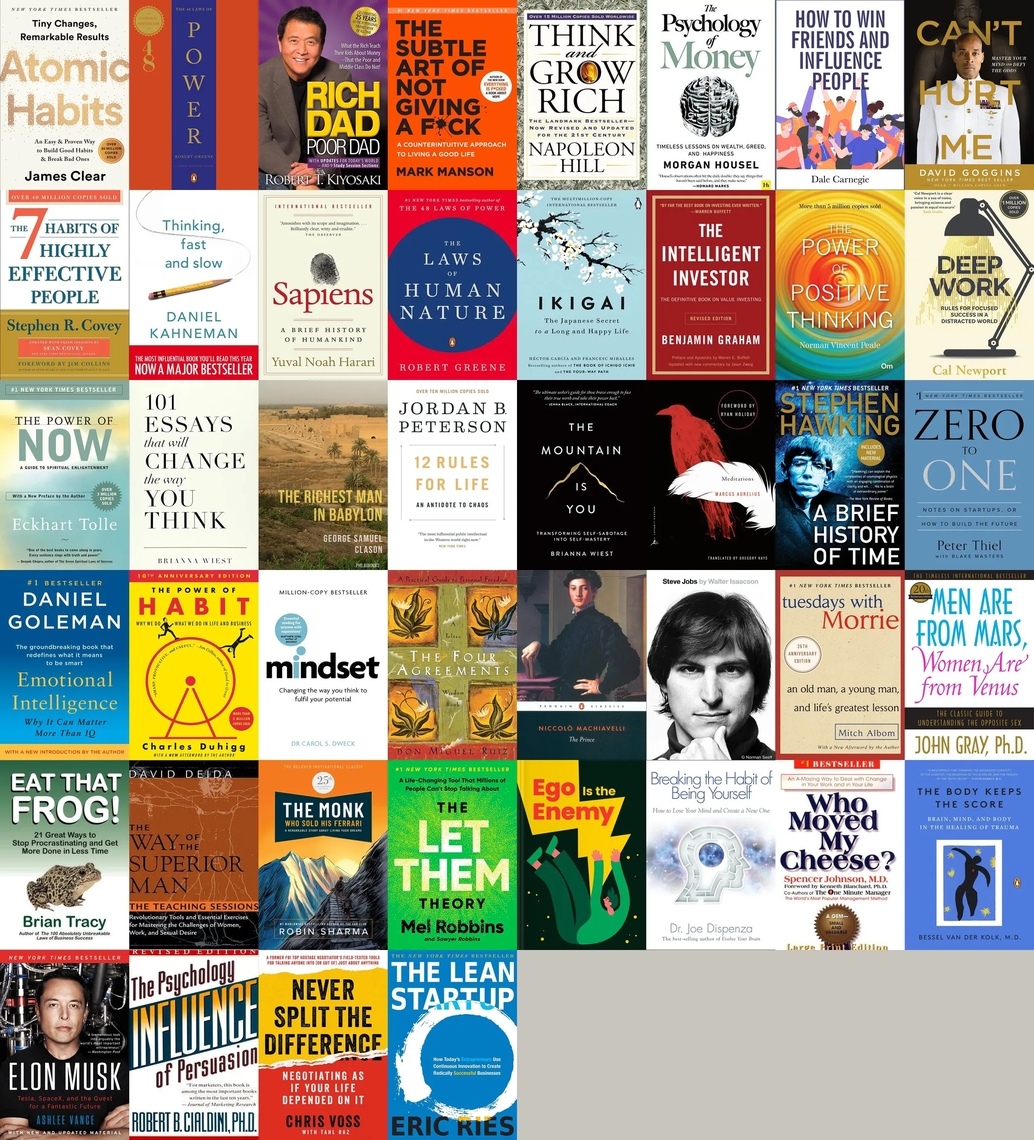
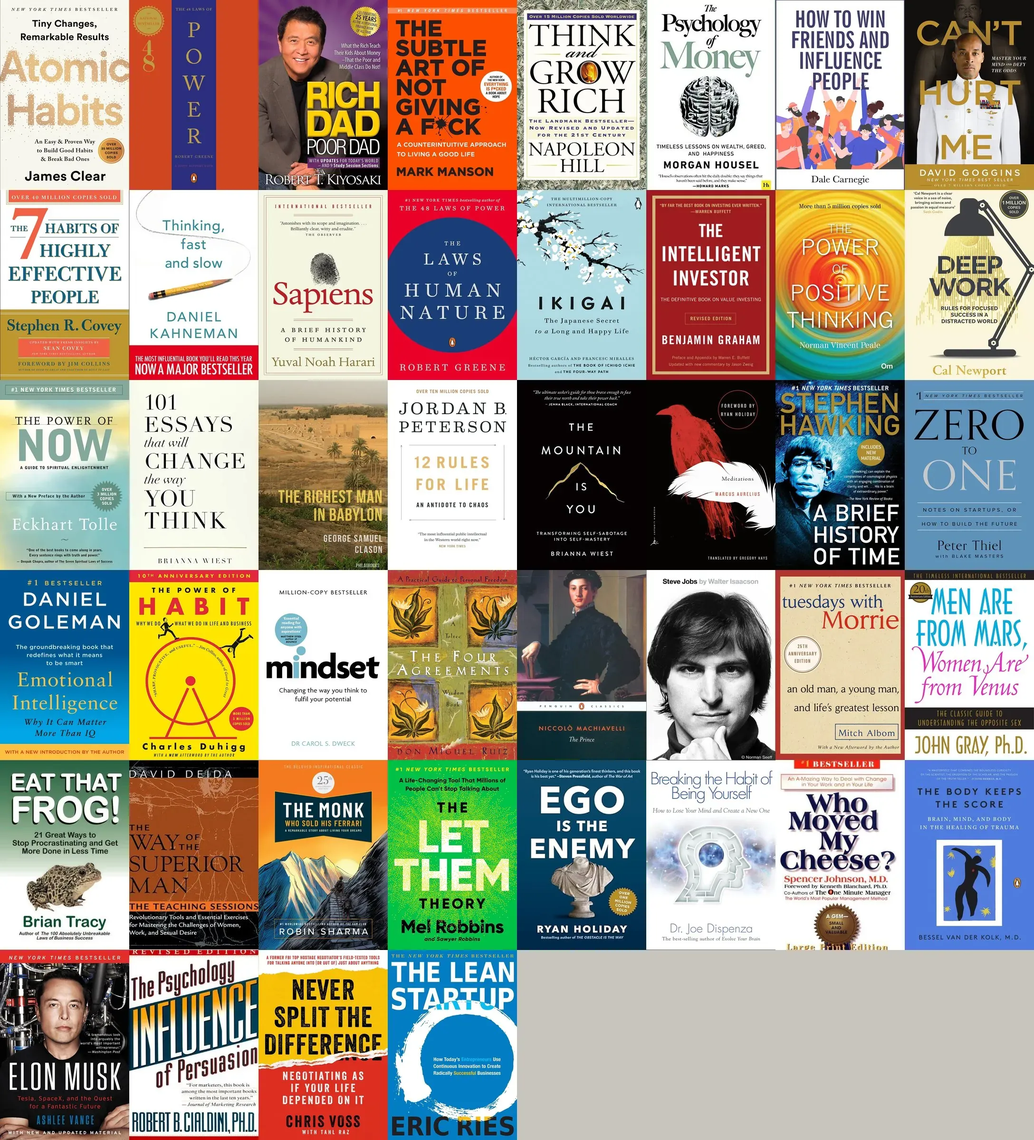
Add privacy manifests and drop Headway covers
- PrivacyInfo.xcprivacy for the app and the widget: no tracking, declared
  data types, and required-reason APIs (UserDefaults, file timestamps).
- backfill-covers never keeps a cover hotlinked from Headway and gains
  --unlicensed to re-check only those books.
- Landing page: Ego Is the Enemy uses an Open Library cover (atlas slot
  patched in place).
- Remove the populate-headway-books npm script (its file was gone).

Claude-Session: https://claude.ai/code/session_012zN42powAZnL5dzLzsEhBi

Changed region(s): [[0.5, 0.6562, 0.625, 0.8438]]

diff --git a/server/public/books.js b/server/public/books.js
@@ -1,2 +1,2 @@
 window.BB_ATLAS = {"src": "/covers-atlas.webp", "cols": 8, "rows": 6, "slotW": 272, "slotH": 400};
-window.BB_BOOKS = [{"title": "Atomic Habits", "author": "James Clear", "cover": "https://books.google.com/books/publisher/content/images/frontcover/XfFvDwAAQBAJ?fife=w1200-h1800&source=gbs_api", "ratio": 1.51, "tint": "#e8e0d1", "hue": 39, "slot": 0}, {"title": "The 48 Laws of Power", "author": "Robert Greene", "cover": "https://is1-ssl.mzstatic.com/image/thumb/Publication221/v4/8a/7d/3e/8a7d3e47-872f-e210-af9c-444dc66872b1/9781101042458.d.jpg/1600x1600bb.jpg", "ratio": 1.423, "tint": "#9c4240", "hue": 1, "slot": 1}, {"title": "Rich Dad Poor Dad", "author": "Robert T. Kiyosaki", "cover": "https://books.google.com/books/publisher/content/images/frontcover/kTEOEgAAQBAJ?fife=w1200-h1800&source=gbs_api", "ratio": 1.5, "tint": "#775649", "hue": 17, "slot": 2}, {"title": "The Subtle Art of Not Giving a F*ck", "author": "Mark Manson", "cover": "https://books.google.com/books/publisher/content/images/frontcover/yng_CwAAQBAJ?fife=w1200-h1800&source=gbs_api", "ratio": 1.498, "tint": "#d55013", "hue": 19, "slot": 3}, {"title": "Think and Grow Rich", "author": "Napoleon Hill", "cover": "https://books.google.com/books/publisher/content/images/frontcover/HO-cnF0abjgC?fife=w1200-h1800&source=gbs_api", "ratio": 1.425, "tint": "#c6c5bb", "hue": null, "slot": 4}, {"title": "The Psychology of Money", "author": "Morgan Housel", "cover": "https://covers.openlibrary.org/b/id/10389354-L.jpg", "ratio": 1.567, "tint": "#dcdedc", "hue": null, "slot": 5}, {"title": "How to win friends and influence people", "author": "Dale Carnegie", "cover": "https://books.google.com/books/publisher/content/images/frontcover/uCO_EAAAQBAJ?fife=w1200-h1800&source=gbs_api", "ratio": 1.506, "tint": "#cdbdc8", "hue": 319, "slot": 6}, {"title": "Can't Hurt Me", "author": "David Goggins", "cover": "https://books.google.com/books/publisher/content/images/frontcover/OSchEAAAQBAJ?fife=w1200-h1800&source=gbs_api", "ratio": 1.546, "tint": "#7b6d55", "hue": 38, "slot": 7}, {"title": "The 7 Habits of Highly Effective People", "author": "Stephen R. Covey", "cover": "https://books.google.com/books/publisher/content/images/frontcover/4K7eDwAAQBAJ?fife=w1200-h1800&source=gbs_api", "ratio": 1.523, "tint": "#d4bb9b", "hue": 34, "slot": 8}, {"title": "Thinking, Fast and Slow", "author": "Daniel Kahneman", "cover": "https://books.google.com/books/publisher/content/images/frontcover/YGPzXWanppcC?fife=w1200-h1800&source=gbs_api", "ratio": 1.544, "tint": "#efced1", "hue": 355, "slot": 9}, {"title": "Sapiens", "author": "Yuval Noah Harari", "cover": "https://books.google.com/books/publisher/content/images/frontcover/Y41zAwAAQBAJ?fife=w1200-h1800&source=gbs_api", "ratio": 1.501, "tint": "#e9e5d1", "hue": 50, "slot": 10}, {"title": "The Laws of Human Nature", "author": "Robert Greene", "cover": "https://books.google.com/books/publisher/content/images/frontcover/T_UOEgAAQBAJ?fife=w1200-h1800&source=gbs_api", "ratio": 1.509, "tint": "#772c5c", "hue": 322, "slot": 11}, {"title": "Ikigai", "author": "Héctor García", "cover": "https://books.google.com/books/publisher/content/images/frontcover/4UCnDQAAQBAJ?fife=w1200-h1800&source=gbs_api", "ratio": 1.414, "tint": "#aacfd6", "hue": 190, "slot": 12}, {"title": "The Intelligent Investor", "author": "Benjamin Graham", "cover": "https://is1-ssl.mzstatic.com/image/thumb/Publication128/v4/b5/4c/14/b54c14de-fc75-a4ba-19b6-ad61fd59ae4c/9780061745171_marketingimage.jpg/1600x1600bb.jpg", "ratio": 1.505, "tint": "#a83a38", "hue": 1, "slot": 13}, {"title": "The Power of Positive Thinking", "author": "Norman Vincent Peale", "cover": "https://books.google.com/books/publisher/content/images/frontcover/A0u0DAAAQBAJ?fife=w1200-h1800&source=gbs_api", "ratio": 1.495, "tint": "#b49d4f", "hue": 46, "slot": 14}, {"title": "Deep Work", "author": "Cal Newport", "cover": "https://books.google.com/books/publisher/content/images/frontcover/lZpFCgAAQBAJ?fife=w1200-h1800&source=gbs_api", "ratio": 1.572, "tint": "#d2cdb2", "hue": 51, "slot": 15}, {"title": "The Power of Now", "author": "Eckhart Tolle", "cover": "https://books.google.com/books/publisher/content/images/frontcover/NFQ7DwAAQBAJ?fife=w1200-h1800&source=gbs_api", "ratio": 1.545, "tint": "#acc9ba", "hue": 149, "slot": 16}, {"title": "101 Essays that Will Change the Way You Think", "author": "Brianna Wiest", "cover": "https://covers.openlibrary.org/b/id/10524689-L.jpg", "ratio": 1.558, "tint": "#eceee2", "hue": 70, "slot": 17}, {"title": "The Richest Man in Babylon", "author": "George S. Clason", "cover": "https://books.google.com/books/publisher/content/images/frontcover/D6brEQAAQBAJ?fife=w1200-h1800&source=gbs_api", "ratio": 1.562, "tint": "#8e784c", "hue": 40, "slot": 18}, {"title": "12 Rules for Life", "author": "Jordan B. Peterson", "cover": "https://books.google.com/books/publisher/content/images/frontcover/sxVHDwAAQBAJ?fife=w1200-h1800&source=gbs_api", "ratio": 1.51, "tint": "#f6f5f3", "hue": 40, "slot": 19}, {"title": "The Mountain Is You", "author": "Brianna Wiest", "cover": "https://covers.openlibrary.org/b/id/13838236-L.jpg", "ratio": 1.502, "tint": "#0d0a0a", "hue": 0, "slot": 20}, {"title": "Meditations", "author": "Marcus Aurelius", "cover": "https://books.google.com/books/publisher/content/images/frontcover/24a_o-VJvGsC?fife=w1200-h1800&source=gbs_api", "ratio": 1.537, "tint": "#42302d", "hue": 9, "slot": 21}, {"title": "A Brief History of Time", "author": "Stephen Hawking", "cover": "https://books.google.com/books/publisher/content/images/frontcover/oZhagX6UWOMC?fife=w1200-h1800&source=gbs_api", "ratio": 1.501, "tint": "#395159", "hue": 195, "slot": 22}, {"title": "Zero to One", "author": "Peter Thiel", "cover": "https://books.google.com/books/publisher/content/images/frontcover/POOJDQAAQBAJ?fife=w1200-h1800&source=gbs_api", "ratio": 1.5, "tint": "#5e8eb2", "hue": 206, "slot": 23}, {"title": "Emotional Intelligence", "author": "Daniel Goleman", "cover": "https://books.google.com/books/publisher/content/images/frontcover/t8GGDwAAQBAJ?fife=w1200-h1800&source=gbs_api", "ratio": 1.508, "tint": "#2a7da1", "hue": 198, "slot": 24}, {"title": "The Power of Habit", "author": "Charles Duhigg", "cover": "https://books.google.com/books/publisher/content/images/frontcover/rrlPEAAAQBAJ?fife=w1200-h1800&source=gbs_api", "ratio": 1.553, "tint": "#f1bf0c", "hue": 47, "slot": 25}, {"title": "Mindset", "author": "Carol Dweck", "cover": "https://books.google.com/books/publisher/content/images/frontcover/R0-eBAAAQBAJ?fife=w1200-h1800&source=gbs_api", "ratio": 1.571, "tint": "#ebedee", "hue": null, "slot": 26}, {"title": "The Four Agreements", "author": "Don Miguel Ruiz", "cover": "https://books.google.com/books/publisher/content/images/frontcover/t54LEAAAQBAJ?fife=w1200-h1800&source=gbs_api", "ratio": 1.45, "tint": "#a97d3f", "hue": 35, "slot": 27}, {"title": "The Prince", "author": "Niccolo Machiavelli", "cover": "https://books.google.com/books/publisher/content/images/frontcover/9l8zEAAAQBAJ?fife=w1200-h1800&source=gbs_api", "ratio": 1.515, "tint": "#494c4e", "hue": null, "slot": 28}, {"title": "Steve Jobs", "author": "Walter Isaacson", "cover": "https://books.google.com/books/publisher/content/images/frontcover/8U2oAAAAQBAJ?fife=w1200-h1800&source=gbs_api", "ratio": 1.52, "tint": "#919191", "hue": null, "slot": 29}, {"title": "Tuesdays with Morrie", "author": "Mitch Albom", "cover": "https://books.google.com/books/publisher/content/images/frontcover/z2z_6hLoPmgC?fife=w1200-h1800&source=gbs_api", "ratio": 1.45, "tint": "#d8b697", "hue": 29, "slot": 30}, {"title": "Men Are from Mars, Women Are from Venus", "author": "John Gray", "cover": "https://books.google.com/books/publisher/content/images/frontcover/gOa0hfqT-M8C?fife=w1200-h1800&source=gbs_api", "ratio": 1.509, "tint": "#c3c7cb", "hue": null, "slot": 31}, {"title": "Eat That Frog!", "author": "Brian Tracy", "cover": "https://covers.openlibrary.org/b/id/847534-L.jpg", "ratio": 1.377, "tint": "#a8b8a9", "hue": null, "slot": 32}, {"title": "The Way of the Superior Man", "author": "David Deida", "cover": "https://covers.openlibrary.org/b/id/865059-L.jpg", "ratio": 1.114, "tint": "#773e1e", "hue": 22, "slot": 33}, {"title": "The Monk Who Sold His Ferrari", "author": "Robin Sharma", "cover": "https://books.google.com/books/publisher/content/images/frontcover/lDAlEAAAQBAJ?fife=w1200-h1800&source=gbs_api", "ratio": 1.499, "tint": "#7e6b4e", "hue": 36, "slot": 34}, {"title": "The Let Them Theory", "author": "Mel Robbins", "cover": "https://books.google.com/books/publisher/content/images/frontcover/WbkVEQAAQBAJ?fife=w1200-h1800&source=gbs_api", "ratio": 1.51, "tint": "#3fc04c", "hue": 126, "slot": 35}, {"title": "Ego Is the Enemy", "author": "Ryan Holiday", "cover": "https://makeheadway.com/_next/image/?url=https%3A%2F%2Fa.storyblok.com%2Ff%2F181188%2F25fc8b7d12%2Fm4tbezvmrcybmlkro6ph-163f8c13a62975-en.jpg&w=750&q=75", "ratio": 1.5, "tint": "#4b5c1d", "hue": 76, "slot": 36}, {"title": "Breaking the Habit of Being Yourself", "author": "Dr. Joe Dispenza", "cover": "https://books.google.com/books/publisher/content/images/frontcover/LV76DwAAQBAJ?fife=w1200-h1800&source=gbs_api", "ratio": 1.471, "tint": "#e4e8ee", "hue": 216, "slot": 37}, {"title": "Who Moved My Cheese?", "author": "Spencer Johnson", "cover": "https://covers.openlibrary.org/b/id/258839-L.jpg", "ratio": 1.572, "tint": "#d5caca", "hue": null, "slot": 38}, {"title": "The Body Keeps the Score", "author": "Bessel A. Van der Kolk", "cover": "https://books.google.com/books/publisher/content/images/frontcover/vHnZCwAAQBAJ?fife=w1200-h1800&source=gbs_api", "ratio": 1.504, "tint": "#5b81d3", "hue": 221, "slot": 39}, {"title": "Elon Musk", "author": "Ashlee Vance", "cover": "https://books.google.com/books/publisher/content/images/frontcover/Yd99BAAAQBAJ?fife=w1200-h1800&source=gbs_api", "ratio": 1.505, "tint": "#594340", "hue": 7, "slot": 40}, {"title": "Influence", "author": "Robert B. Cialdini", "cover": "https://covers.openlibrary.org/b/id/431011-L.jpg", "ratio": 1.522, "tint": "#b3aaa6", "hue": null, "slot": 41}, {"title": "Never Split the Difference", "author": "Chris Voss", "cover": "https://books.google.com/books/publisher/content/images/frontcover/RmdqCgAAQBAJ?fife=w1200-h1800&source=gbs_api", "ratio": 1.513, "tint": "#cd7b39", "hue": 27, "slot": 42}, {"title": "The Lean Startup", "author": "Eric Ries", "cover": "https://books.google.com/books/publisher/content/images/frontcover/r9x-OXdzpPcC?fife=w1200-h1800&source=gbs_api", "ratio": 1.51, "tint": "#4b9dca", "hue": 201, "slot": 43}];
+window.BB_BOOKS = [{"title": "Atomic Habits", "author": "James Clear", "cover": "https://books.google.com/books/publisher/content/images/frontcover/XfFvDwAAQBAJ?fife=w1200-h1800&source=gbs_api", "ratio": 1.51, "tint": "#e8e0d1", "hue": 39, "slot": 0}, {"title": "The 48 Laws of Power", "author": "Robert Greene", "cover": "https://is1-ssl.mzstatic.com/image/thumb/Publication221/v4/8a/7d/3e/8a7d3e47-872f-e210-af9c-444dc66872b1/9781101042458.d.jpg/1600x1600bb.jpg", "ratio": 1.423, "tint": "#9c4240", "hue": 1, "slot": 1}, {"title": "Rich Dad Poor Dad", "author": "Robert T. Kiyosaki", "cover": "https://books.google.com/books/publisher/content/images/frontcover/kTEOEgAAQBAJ?fife=w1200-h1800&source=gbs_api", "ratio": 1.5, "tint": "#775649", "hue": 17, "slot": 2}, {"title": "The Subtle Art of Not Giving a F*ck", "author": "Mark Manson", "cover": "https://books.google.com/books/publisher/content/images/frontcover/yng_CwAAQBAJ?fife=w1200-h1800&source=gbs_api", "ratio": 1.498, "tint": "#d55013", "hue": 19, "slot": 3}, {"title": "Think and Grow Rich", "author": "Napoleon Hill", "cover": "https://books.google.com/books/publisher/content/images/frontcover/HO-cnF0abjgC?fife=w1200-h1800&source=gbs_api", "ratio": 1.425, "tint": "#c6c5bb", "hue": null, "slot": 4}, {"title": "The Psychology of Money", "author": "Morgan Housel", "cover": "https://covers.openlibrary.org/b/id/10389354-L.jpg", "ratio": 1.567, "tint": "#dcdedc", "hue": null, "slot": 5}, {"title": "How to win friends and influence people", "author": "Dale Carnegie", "cover": "https://books.google.com/books/publisher/content/images/frontcover/uCO_EAAAQBAJ?fife=w1200-h1800&source=gbs_api", "ratio": 1.506, "tint": "#cdbdc8", "hue": 319, "slot": 6}, {"title": "Can't Hurt Me", "author": "David Goggins", "cover": "https://books.google.com/books/publisher/content/images/frontcover/OSchEAAAQBAJ?fife=w1200-h1800&source=gbs_api", "ratio": 1.546, "tint": "#7b6d55", "hue": 38, "slot": 7}, {"title": "The 7 Habits of Highly Effective People", "author": "Stephen R. Covey", "cover": "https://books.google.com/books/publisher/content/images/frontcover/4K7eDwAAQBAJ?fife=w1200-h1800&source=gbs_api", "ratio": 1.523, "tint": "#d4bb9b", "hue": 34, "slot": 8}, {"title": "Thinking, Fast and Slow", "author": "Daniel Kahneman", "cover": "https://books.google.com/books/publisher/content/images/frontcover/YGPzXWanppcC?fife=w1200-h1800&source=gbs_api", "ratio": 1.544, "tint": "#efced1", "hue": 355, "slot": 9}, {"title": "Sapiens", "author": "Yuval Noah Harari", "cover": "https://books.google.com/books/publisher/content/images/frontcover/Y41zAwAAQBAJ?fife=w1200-h1800&source=gbs_api", "ratio": 1.501, "tint": "#e9e5d1", "hue": 50, "slot": 10}, {"title": "The Laws of Human Nature", "author": "Robert Greene", "cover": "https://books.google.com/books/publisher/content/images/frontcover/T_UOEgAAQBAJ?fife=w1200-h1800&source=gbs_api", "ratio": 1.509, "tint": "#772c5c", "hue": 322, "slot": 11}, {"title": "Ikigai", "author": "Héctor García", "cover": "https://books.google.com/books/publisher/content/images/frontcover/4UCnDQAAQBAJ?fife=w1200-h1800&source=gbs_api", "ratio": 1.414, "tint": "#aacfd6", "hue": 190, "slot": 12}, {"title": "The Intelligent Investor", "author": "Benjamin Graham", "cover": "https://is1-ssl.mzstatic.com/image/thumb/Publication128/v4/b5/4c/14/b54c14de-fc75-a4ba-19b6-ad61fd59ae4c/9780061745171_marketingimage.jpg/1600x1600bb.jpg", "ratio": 1.505, "tint": "#a83a38", "hue": 1, "slot": 13}, {"title": "The Power of Positive Thinking", "author": "Norman Vincent Peale", "cover": "https://books.google.com/books/publisher/content/images/frontcover/A0u0DAAAQBAJ?fife=w1200-h1800&source=gbs_api", "ratio": 1.495, "tint": "#b49d4f", "hue": 46, "slot": 14}, {"title": "Deep Work", "author": "Cal Newport", "cover": "https://books.google.com/books/publisher/content/images/frontcover/lZpFCgAAQBAJ?fife=w1200-h1800&source=gbs_api", "ratio": 1.572, "tint": "#d2cdb2", "hue": 51, "slot": 15}, {"title": "The Power of Now", "author": "Eckhart Tolle", "cover": "https://books.google.com/books/publisher/content/images/frontcover/NFQ7DwAAQBAJ?fife=w1200-h1800&source=gbs_api", "ratio": 1.545, "tint": "#acc9ba", "hue": 149, "slot": 16}, {"title": "101 Essays that Will Change the Way You Think", "author": "Brianna Wiest", "cover": "https://covers.openlibrary.org/b/id/10524689-L.jpg", "ratio": 1.558, "tint": "#eceee2", "hue": 70, "slot": 17}, {"title": "The Richest Man in Babylon", "author": "George S. Clason", "cover": "https://books.google.com/books/publisher/content/images/frontcover/D6brEQAAQBAJ?fife=w1200-h1800&source=gbs_api", "ratio": 1.562, "tint": "#8e784c", "hue": 40, "slot": 18}, {"title": "12 Rules for Life", "author": "Jordan B. Peterson", "cover": "https://books.google.com/books/publisher/content/images/frontcover/sxVHDwAAQBAJ?fife=w1200-h1800&source=gbs_api", "ratio": 1.51, "tint": "#f6f5f3", "hue": 40, "slot": 19}, {"title": "The Mountain Is You", "author": "Brianna Wiest", "cover": "https://covers.openlibrary.org/b/id/13838236-L.jpg", "ratio": 1.502, "tint": "#0d0a0a", "hue": 0, "slot": 20}, {"title": "Meditations", "author": "Marcus Aurelius", "cover": "https://books.google.com/books/publisher/content/images/frontcover/24a_o-VJvGsC?fife=w1200-h1800&source=gbs_api", "ratio": 1.537, "tint": "#42302d", "hue": 9, "slot": 21}, {"title": "A Brief History of Time", "author": "Stephen Hawking", "cover": "https://books.google.com/books/publisher/content/images/frontcover/oZhagX6UWOMC?fife=w1200-h1800&source=gbs_api", "ratio": 1.501, "tint": "#395159", "hue": 195, "slot": 22}, {"title": "Zero to One", "author": "Peter Thiel", "cover": "https://books.google.com/books/publisher/content/images/frontcover/POOJDQAAQBAJ?fife=w1200-h1800&source=gbs_api", "ratio": 1.5, "tint": "#5e8eb2", "hue": 206, "slot": 23}, {"title": "Emotional Intelligence", "author": "Daniel Goleman", "cover": "https://books.google.com/books/publisher/content/images/frontcover/t8GGDwAAQBAJ?fife=w1200-h1800&source=gbs_api", "ratio": 1.508, "tint": "#2a7da1", "hue": 198, "slot": 24}, {"title": "The Power of Habit", "author": "Charles Duhigg", "cover": "https://books.google.com/books/publisher/content/images/frontcover/rrlPEAAAQBAJ?fife=w1200-h1800&source=gbs_api", "ratio": 1.553, "tint": "#f1bf0c", "hue": 47, "slot": 25}, {"title": "Mindset", "author": "Carol Dweck", "cover": "https://books.google.com/books/publisher/content/images/frontcover/R0-eBAAAQBAJ?fife=w1200-h1800&source=gbs_api", "ratio": 1.571, "tint": "#ebedee", "hue": null, "slot": 26}, {"title": "The Four Agreements", "author": "Don Miguel Ruiz", "cover": "https://books.google.com/books/publisher/content/images/frontcover/t54LEAAAQBAJ?fife=w1200-h1800&source=gbs_api", "ratio": 1.45, "tint": "#a97d3f", "hue": 35, "slot": 27}, {"title": "The Prince", "author": "Niccolo Machiavelli", "cover": "https://books.google.com/books/publisher/content/images/frontcover/9l8zEAAAQBAJ?fife=w1200-h1800&source=gbs_api", "ratio": 1.515, "tint": "#494c4e", "hue": null, "slot": 28}, {"title": "Steve Jobs", "author": "Walter Isaacson", "cover": "https://books.google.com/books/publisher/content/images/frontcover/8U2oAAAAQBAJ?fife=w1200-h1800&source=gbs_api", "ratio": 1.52, "tint": "#919191", "hue": null, "slot": 29}, {"title": "Tuesdays with Morrie", "author": "Mitch Albom", "cover": "https://books.google.com/books/publisher/content/images/frontcover/z2z_6hLoPmgC?fife=w1200-h1800&source=gbs_api", "ratio": 1.45, "tint": "#d8b697", "hue": 29, "slot": 30}, {"title": "Men Are from Mars, Women Are from Venus", "author": "John Gray", "cover": "https://books.google.com/books/publisher/content/images/frontcover/gOa0hfqT-M8C?fife=w1200-h1800&source=gbs_api", "ratio": 1.509, "tint": "#c3c7cb", "hue": null, "slot": 31}, {"title": "Eat That Frog!", "author": "Brian Tracy", "cover": "https://covers.openlibrary.org/b/id/847534-L.jpg", "ratio": 1.377, "tint": "#a8b8a9", "hue": null, "slot": 32}, {"title": "The Way of the Superior Man", "author": "David Deida", "cover": "https://covers.openlibrary.org/b/id/865059-L.jpg", "ratio": 1.114, "tint": "#773e1e", "hue": 22, "slot": 33}, {"title": "The Monk Who Sold His Ferrari", "author": "Robin Sharma", "cover": "https://books.google.com/books/publisher/content/images/frontcover/lDAlEAAAQBAJ?fife=w1200-h1800&source=gbs_api", "ratio": 1.499, "tint": "#7e6b4e", "hue": 36, "slot": 34}, {"title": "The Let Them Theory", "author": "Mel Robbins", "cover": "https://books.google.com/books/publisher/content/images/frontcover/WbkVEQAAQBAJ?fife=w1200-h1800&source=gbs_api", "ratio": 1.51, "tint": "#3fc04c", "hue": 126, "slot": 35}, {"title": "Ego Is the Enemy", "author": "Ryan Holiday", "cover": "https://covers.openlibrary.org/b/isbn/9781591847816-L.jpg", "ratio": 1.417, "tint": "#375f73", "hue": 200, "slot": 36}, {"title": "Breaking the Habit of Being Yourself", "author": "Dr. Joe Dispenza", "cover": "https://books.google.com/books/publisher/content/images/frontcover/LV76DwAAQBAJ?fife=w1200-h1800&source=gbs_api", "ratio": 1.471, "tint": "#e4e8ee", "hue": 216, "slot": 37}, {"title": "Who Moved My Cheese?", "author": "Spencer Johnson", "cover": "https://covers.openlibrary.org/b/id/258839-L.jpg", "ratio": 1.572, "tint": "#d5caca", "hue": null, "slot": 38}, {"title": "The Body Keeps the Score", "author": "Bessel A. Van der Kolk", "cover": "https://books.google.com/books/publisher/content/images/frontcover/vHnZCwAAQBAJ?fife=w1200-h1800&source=gbs_api", "ratio": 1.504, "tint": "#5b81d3", "hue": 221, "slot": 39}, {"title": "Elon Musk", "author": "Ashlee Vance", "cover": "https://books.google.com/books/publisher/content/images/frontcover/Yd99BAAAQBAJ?fife=w1200-h1800&source=gbs_api", "ratio": 1.505, "tint": "#594340", "hue": 7, "slot": 40}, {"title": "Influence", "author": "Robert B. Cialdini", "cover": "https://covers.openlibrary.org/b/id/431011-L.jpg", "ratio": 1.522, "tint": "#b3aaa6", "hue": null, "slot": 41}, {"title": "Never Split the Difference", "author": "Chris Voss", "cover": "https://books.google.com/books/publisher/content/images/frontcover/RmdqCgAAQBAJ?fife=w1200-h1800&source=gbs_api", "ratio": 1.513, "tint": "#cd7b39", "hue": 27, "slot": 42}, {"title": "The Lean Startup", "author": "Eric Ries", "cover": "https://books.google.com/books/publisher/content/images/frontcover/r9x-OXdzpPcC?fife=w1200-h1800&source=gbs_api", "ratio": 1.51, "tint": "#4b9dca", "hue": 201, "slot": 43}];

diff --git a/server/scripts/backfill-covers.ts b/server/scripts/backfill-covers.ts
@@ -10,7 +10,8 @@
  *      study guides and summaries excluded)
  *   3. Apple Books artwork, looked up by ISBN (never by title: titles match the wrong book)
  *   4. Open Library large cover
- *   5. The current cover_url
+ *   5. The current cover_url (never a cover hotlinked from a summary company such as Headway:
+ *      we have no rights to their images)
  *
  * If none is that sharp, the largest candidate at least FALLBACK_MIN_WIDTH px wide is kept:
  * a soft but recognisable cover beats a designed one.
@@ -28,6 +29,7 @@
  *   --force     Re-check books whose cover is already from Google publisher / Apple
  *   --report    Write every decision (old URL, new URL, source, rejections) as JSON
  *   --ids       Only these book ids (comma-separated); implies --force
+ *   --unlicensed  Only books whose cover is hotlinked from an UNLICENSED_COVER_HOSTS host
  */
 
 import { createClient } from '@supabase/supabase-js';
@@ -75,6 +77,7 @@ const options = {
   limit: args.includes('--limit') ? parseInt(args[args.indexOf('--limit') + 1], 10) : undefined,
   report: args.includes('--report') ? args[args.indexOf('--report') + 1] : undefined,
   ids: args.includes('--ids') ? args[args.indexOf('--ids') + 1].split(',') : undefined,
+  unlicensed: args.includes('--unlicensed'),
 };
 
 const supabase = createClient(process.env.SUPABASE_URL!, process.env.SUPABASE_SERVICE_KEY!, {
@@ -86,6 +89,10 @@ const googlePublisherUrl = (id: string) =>
 
 const isHighResSource = (url: string | null) =>
   !!url && (url.includes('/books/publisher/content/images/frontcover/') || url.includes('mzstatic.com'));
+
+// Covers from other summary apps: never kept, so these books get a real cover or the typographic one.
+const UNLICENSED_COVER_HOSTS = ['makeheadway.com', 'storyblok.com'];
+const isUnlicensedCover = (url: string | null) => !!url && UNLICENSED_COVER_HOSTS.some(host => url.includes(host));
 
 type Measured = { width: number; height: number };
 
@@ -181,7 +188,7 @@ async function processBook(book: BookRow): Promise<Result> {
       return url ? [{ source: 'apple', url }] : [];
     },
     async () => (isbns.length ? [{ source: 'openlibrary', url: `https://covers.openlibrary.org/b/isbn/${isbns[0]}-L.jpg?default=false` }] : []),
-    async () => (book.cover_url ? [{ source: 'current', url: book.cover_url }] : []),
+    async () => (book.cover_url && !isUnlicensedCover(book.cover_url) ? [{ source: 'current', url: book.cover_url }] : []),
   ];
 
   let fallback: Result['chosen'];
@@ -218,7 +225,11 @@ async function fetchBooks(): Promise<BookRow[]> {
     books.push(...(data as BookRow[]));
     if (data.length < 1000) break;
   }
-  const todo = options.force || options.ids ? books : books.filter(book => !isHighResSource(book.cover_url));
+  const todo = options.unlicensed
+    ? books.filter(book => isUnlicensedCover(book.cover_url))
+    : options.force || options.ids
+      ? books
+      : books.filter(book => !isHighResSource(book.cover_url));
   return options.limit ? todo.slice(0, options.limit) : todo;
 }
 

diff --git a/CLAUDE.md b/CLAUDE.md
@@ -79,7 +79,7 @@ npm run backfill-covers -- --dry-run --featured --report /tmp/covers.json   # se
 npm run embed-books -- --dry-run            # see "Recommendations"; only re-embeds books whose text changed, a few cents for all
 npm run embed-ideas -- --dry-run            # see "Ask"; one vector per key idea and how-to-apply action, needs add-idea-embeddings.sql
 npm run update-reader-counts -- --dry-run   # free; sets popularity_score = Open Library reader count for every book (see below)
-npm run update-book-covers / populate-headway-books
+npm run update-book-covers
 ```
 `popularity_score` is the Open Library reader count (users who marked the book want-to-read/reading/read; e.g. 48 Laws of Power ≈ 52k, most books < 500, 0 = no match). Both `update-reader-counts` and `add-curated-books` pick the matching work with the most readers, which avoids linking to an obscure edition. Don't run the old `update-popularity-scores` (Google Books rating formula, a different scale; it overwrites 0 scores). Featured flag (`is_featured`) is separate: new books aren't featured, so they don't appear on Discover's genre shelves until flagged.
 Audio ≈ $0.94/book (GPT-4o script + ElevenLabs Turbo v2.5). Default voice Adam `pNInz6obpgDQGcFmaJgB`; others: Bella `EXAVITQu4vr4xnSDxMaL`, Rachel `21m00Tcm4TlvDq8ikWAM`, Antoni `ErXwobaYiN019PkySvjV`.
@@ -122,6 +122,7 @@ Schema: `server/supabase/schema.sql` plus loose SQL files in `server/supabase/` 
 - Editorial tab roots (Discover, Library) hide the navigation bar with `.editorialNavigationBar()` and use `EditorialHeader(title:caption:trailing:)` (`Shared/Components`); keep the header visible in loading/error states too (UI test relies on it). Pass `caption:`/`trailing:` with labels: an unlabeled trailing closure binds to `trailing`.
 - App icon (`AppIcon.appiconset`: light, dark, tinted PNGs): a cream serif "B" (New York) with a bite out of its top-right corner, on oxblood bookcloth (`TypographicCover`'s oxblood). SVG sources in `design/` (render with `qlmanage -t -s 1024 -o . design/app-icon.svg`; the dark PNG is the tinted one's luminance as alpha on cream).
 - iPad: wide layouts switch on `horizontalSizeClass == .regular` (so a narrow Split View or Stage Manager window gets the iPhone layout). Discover: the idea card beside Continue reading, editorial cards three to a row (`FeedRow.wide`: shelves stay full width, a card row sits where its first card was and takes the next cards, so rows on screen never move as blocks load), 136pt shelf covers. Book page: cover, title and actions in a 400pt column on the cover-tint wash, summary scrolling beside it (hook flush left, larger). Reader: chapter column on the left (toolbar `sidebar.leading` toggles it). The per-book "Ask the book" chat was removed in favour of the Ask tab. Ask conversation: sources of the latest answer in an `.inspector`, numbered as cited. Library: Continue reading beside the Notebook preview. Mock-ups: Artifact "BookBite for iPad". Gotchas: the sidebar-only Notebook `TabSection` is added only in regular width, because `.defaultVisibility(.hidden, for: .tabBar)` doesn't hide it from the iPhone tab bar; pass `.inspector` a plain `$state` binding, since a `Binding(get:set:)` built in `body` looped the reader's layout (100% CPU, frozen UI).
+- Privacy manifests: `BookBite/PrivacyInfo.xcprivacy` (no tracking; email, name, user id, product interaction, Ask questions; UserDefaults CA92.1 + 1C8F.1, file timestamps C617.1 for `CacheService`) and `BookBiteWidget/PrivacyInfo.xcprivacy` (app-group UserDefaults). Update them, `privacy.html` and the App Store Connect privacy answers together when data flows or required-reason APIs change.
 - Design rule: keep the UI monochrome and quiet. No badges, ratings, or decorative color on book lists; color comes from book covers only. `Shared/Design/DesignSystem.swift` still holds old tokens used by Request/Auth/Audio views.
 
 ## Widget (`BookBiteWidget/DailyIdeaWidget.swift`)
@@ -155,7 +156,7 @@ The reader's end section (`ReaderEndSection`) has a "Get the full book" menu (Am
 
 ## Covers
 
-`server/scripts/backfill-covers.ts` picks the sharpest cover per book and writes it to `books.cover_url`: Google Books publisher image (`books/publisher/content/images/frontcover/<id>?fife=w1200-h1800`, the original artwork) → the same for other Google editions with matching title + author surname → Apple Books by ISBN (never by title: "Drive" matched the wrong book) → Open Library → current URL. First candidate ≥500px wide with aspect 1.1–1.8 wins; else the largest ≥320px; else `null` (app shows `TypographicCover`). URLs are stored directly (Google/Apple are resizing CDNs; rehosting ~2k covers would hit the Supabase free-tier 1 GB storage). Replaced URLs are kept in `server/scripts/data/cover-url-backup.json` (oldest URL wins on re-runs). By default it skips books already on Google publisher/Apple URLs, so re-run it after adding books; new books still get 128px `books/content` URLs from the importers. iTunes lookup is rate limited (~20/min), so a full run takes a while. The other-edition step uses the Google Books API key, whose daily query quota a full run can exhaust (that also breaks the server's Google search / book requests until midnight Pacific); the script stops and saves what it checked when that happens. `--ids a,b` re-checks specific books. Check `--report` output visually before writing: other-edition matches are the riskiest.
+`server/scripts/backfill-covers.ts` picks the sharpest cover per book and writes it to `books.cover_url`: Google Books publisher image (`books/publisher/content/images/frontcover/<id>?fife=w1200-h1800`, the original artwork) → the same for other Google editions with matching title + author surname → Apple Books by ISBN (never by title: "Drive" matched the wrong book) → Open Library → current URL. First candidate ≥500px wide with aspect 1.1–1.8 wins; else the largest ≥320px; else `null` (app shows `TypographicCover`). URLs are stored directly (Google/Apple are resizing CDNs; rehosting ~2k covers would hit the Supabase free-tier 1 GB storage). Replaced URLs are kept in `server/scripts/data/cover-url-backup.json` (oldest URL wins on re-runs). By default it skips books already on Google publisher/Apple URLs, so re-run it after adding books; new books still get 128px `books/content` URLs from the importers. iTunes lookup is rate limited (~20/min), so a full run takes a while. The other-edition step uses the Google Books API key, whose daily query quota a full run can exhaust (that also breaks the server's Google search / book requests until midnight Pacific); the script stops and saves what it checked when that happens. `--ids a,b` re-checks specific books. `--unlicensed` re-checks only books with covers hotlinked from another summary app (`UNLICENSED_COVER_HOSTS`: Headway); those URLs are never kept, so a book with no other source gets `null`. Check `--report` output visually before writing: other-edition matches are the riskiest.
 
 ## Landing page
 
@@ -189,7 +190,7 @@ Behaviour worth knowing:
 ## Known open issues
 - The `chat_conversations`/`chat_messages` tables in `schema.sql` are unused since the chat routes were removed.
 - Discover's genre shelves only use the first 100 of ~216 featured books (default `limit=100`); the endless feed below them covers the rest of the catalogue.
-- Some covers (Open Library) load slowly via redirects; makeheadway.com covers are hotlinked.
+- Some covers (Open Library) load slowly via redirects. Covers hotlinked from makeheadway.com (no rights) may remain in the DB until `npm run backfill-covers -- --unlicensed` runs.
 - `BookDetailViewModel` polling `Task` captures `self` strongly (bounded to 5 min).
 - `SearchService` bypasses the injected repository.
 - The summary's citations are decoded but not shown in the app.
